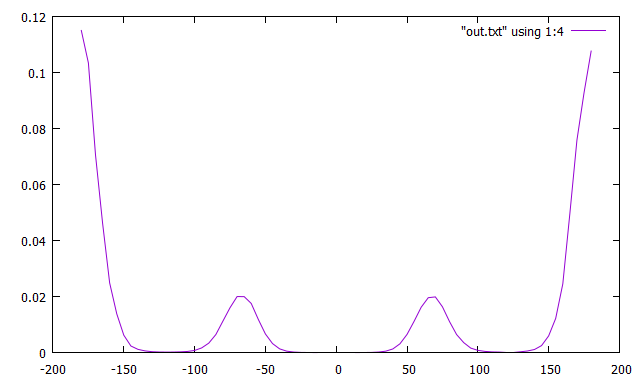
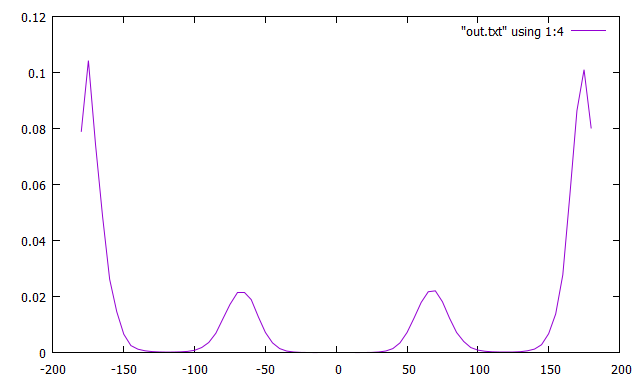
take into account periodicity and add script for plotting

diff --git a/manual/Tutorial/LaTeX/Tutorial.tex b/manual/Tutorial/LaTeX/Tutorial.tex
@@ -1300,11 +1300,12 @@ import os
 import shutil
 
 # USER INPUT
-STEPS = range(-180, 185, 5)           # to which values should the restraint be set? 
+STEPS = range(-180, 185, 5)           # to which values was the restraint set? 
 FORCE_CONSTANT = 0.05                 # force constant of biasing potential
 PATH = "/apps/wham/wham/wham"         # path to WHAM program
 
 # ... for WHAM
+REACTION_COORD = "torsion"   # what kind of reaction coordinate? 'bond' or 'torsion'
 BINS = 73                    # number of points in final PMF (= number of bins)
 MIN = -182.5                 # minimum boundary of histogram
 MAX = 182.5                  # maximum boundary of histogram
@@ -1333,7 +1334,12 @@ def copy_and_and_create_inputfile():
 
 if copy_and_and_create_inputfile():
     os.chdir("analysis")
-    os.popen("{} {} {} {} {:.9f} {} 0 in.txt out.txt".format(PATH,MIN,MAX,BINS,TOL,TEMP)) |\label{runWHAM}
+    if REACTION_COORD == "bond":
+        os.popen("{} {} {} {} {:.9f} {} 0 in.txt out.txt".format(PATH,MIN,MAX,BINS,TOL,TEMP))
+    elif REACTION_COORD == "torsion":
+        os.popen("{} P {} {} {} {:.9f} {} 0 in.txt out.txt".format(PATH,MIN,MAX,BINS,TOL,TEMP)) |\label{runWHAM}|
+    else:
+        print "ERROR: unvalid kind of reaction coordinate!"
 \end{lstlisting}
 
 We start this script the same way as before by typing \texttt{python umbrella\_analysis.py} into a command prompt. Let's see what user input we need:
@@ -1342,6 +1348,7 @@ We start this script the same way as before by typing \texttt{python umbrella\_a
 	\item \texttt{FORCE\_CONSTANT} is the force constant of the biasing potential. 
 	\item For \texttt{PATH} we give the path to the WHAM program including the command \texttt{wham} itself. 
 	\item These three options we need to write the WHAM inputfile \texttt{in.txt}. The following options are needed for running WHAM in line \ref{runWHAM}:
+	\item WHAM needs to know if your reaction coordinate is a bond or a torsion because in case of a torsion it takes into account the symmetry. This information is given by \texttt{REACTION\_COORD}.
 	\item \texttt{BINS} is the number of points where the PMF is calculated. This is not necessarily the same number as the number of the simulations we ran but it's a good point to start.
 	\item \texttt{MIN} and \texttt{MAX} are the minimum and maximum boundary of the histogram. As we want our 73 bins to have their center at the same value for the torsion restraints, -182.5° and 182.5° are the values we have to type here.
 	\item \texttt{TEMP} is the temperature where WHAM should be performed. Again it doesn't have to be the same as where the MD simulations were performed but again, why not?
@@ -1352,7 +1359,7 @@ After we have run the script we can go into the folder \texttt{analysis} which w
 
 We first have a look into the inputfile: It contains for every single window the name of the \texttt{umbrella\_*.txt} file, the value to which the torsinal angle was restrained and the force constant of the biasing potential.
 
-In the output file we only look at lines 1 to 74. The first column contains the center of the bins we defined by the minimum and maximum value of the torsional angle and the number of bins. The second column contains the Free Energy difference $A(\xi)$. We see that it's highest value is at 0°. This is what we expect because there the two methyl groups are next to each other (gauche conformation). This value should be somewhere near $5.76 \frac{kcal}{mol}$\myCite{becker_development_2015}. In my example it is around $6.1 \frac{kcal}{mol}$. Results here can differ a bit because there is always a lot of randomness in MD simulations. The third and the fifth column are bullshit, the fourth line contains the probability. When the Free Energy is high the probability is low and the other way round. Because all other lines start with \texttt{\#} it is quite easy to plot this file with gnuplot: \texttt{plot "out.txt" using 1:2 with lines} shows the Free Energy, \texttt{plot "out.txt" using 1:4 with lines} shows the probability. The results should look something like figure \ref{fig:wham_result}.
+In the output file we only look at lines 1 to 74. The first column contains the center of the bins we defined by the minimum and maximum value of the torsional angle and the number of bins. The second column contains the Free Energy difference $A(\xi)$. We see that it's highest value is at 0°. This is what we expect because there the two methyl groups are next to each other (gauche conformation). This value should be somewhere near $5.76 \frac{kcal}{mol}$\myCite{becker_development_2015}. In my example it is around $5.99 \frac{kcal}{mol}$ or $5.83 \frac{kcal}{mol}$ depending on if I define zero energy as the energy at -180° (where it should be lowest) or as the energy at -175° (where it is lowest). Results here can differ a bit because there is always a lot of randomness in MD simulations. The third and the fifth column are bullshit, the fourth line contains the probability. When the Free Energy is high the probability is low and the other way round. Because all other lines start with \texttt{\#} it is quite easy to plot this file with gnuplot: \texttt{plot "out.txt" using 1:2 with lines} shows the Free Energy, \texttt{plot "out.txt" using 1:4 with lines} shows the probability. The results should look something like figure \ref{fig:wham_result}.
 
 \begin{figure} [htb]
 	\subfigure[Free Energy]{\includegraphics[width=0.49\textwidth]{Img/umbrella_FreeEnergy.png}}

diff --git a/optional_files/scripts/umbrella_plot.py b/optional_files/scripts/umbrella_plot.py
@@ -1,0 +1,59 @@
+### script for graphical analysis of Umbrella Sampling ###
+
+import glob
+import math
+import matplotlib.pyplot as plt
+
+# USER INPUT (only needed for distribution)
+MIN = -182.5
+MAX = 182.5
+
+# read outputfile
+with open("out.txt") as outfile:
+    lines = outfile.readlines()
+
+# get values for reaction coordinae, free energy and probability
+xi = []  # reaction coordinate
+A = []   # free energy
+P = []   # probability
+for line in lines:
+    if line.startswith("#") == False:
+        linelist = line.split()
+        xi.append(float(linelist[0]))
+        A.append(float(linelist[1]))
+        P.append(float(linelist[3]))
+
+# plot Free Energy
+plt.plot(xi, A, linewidth=2, color='black')
+plt.xlim(min(xi),max(xi))
+plt.xlabel('reaction coordinate')
+plt.ylabel('Free Energy A [kcal/mol]')
+plt.savefig("FreeEnergy.png")
+plt.close()
+
+# plot probability
+plt.plot(xi, P, linewidth=2, color='black')
+plt.xlim(min(xi),max(xi))
+plt.xlabel('reaction coordinate')
+plt.ylabel('Probability P')
+plt.savefig("Probability.png")
+plt.close()
+
+# plot distributions from sampling
+print "Start ploting distributions"
+xi_lists = []
+for filename in glob.glob("umbrella_*.txt"):
+    print "looking at file", filename
+    with open(filename) as umbrella_file:
+        lines = umbrella_file.readlines()
+    xi = []
+    for i,line in enumerate(lines):
+        xi.append(float(line.split()[1]))
+    xi_lists.append(xi)
+    print min(xi),max(xi)
+
+plt.rcParams['figure.figsize'] = [11,8]  # 11x8 inches is next to DinA4
+number = int(math.sqrt(len(xi_lists[0])))
+n, bins, patches = plt.hist(xi_lists, number, histtype='step')
+#plt.xlim(MIN,MAX)
+plt.savefig("distribution.png", dpi=100)  

diff --git a/optional_files/scripts/umbrella_analysis.py b/optional_files/scripts/umbrella_analysis.py
@@ -9,6 +9,7 @@ FORCE_CONSTANT = 0.05                 # force constant of biasing potential
 PATH = "/apps/wham/wham/wham"         # path to WHAM program
 
 # ... for WHAM
+REACTION_COORD = "torsion"   # what kind of reaction coordinate? 'bond' or 'torsion'
 MIN = -182.5                 # minimum boundary of histogram
 MAX = 182.5                  # maximum boundary of histogram
 BINS = 73                    # number of points in final PMF (= number of bins)
@@ -37,4 +38,9 @@ def copy_and_and_create_inputfile():
 
 if copy_and_and_create_inputfile():
     os.chdir("analysis")
-    os.popen("{} {} {} {} {:.9f} {} 0 in.txt out.txt".format(PATH,MIN,MAX,BINS,TOL,TEMP))
+    if REACTION_COORD == "bond":
+        os.popen("{} {} {} {} {:.9f} {} 0 in.txt out.txt".format(PATH,MIN,MAX,BINS,TOL,TEMP))
+    elif REACTION_COORD == "torsion":
+        os.popen("{} P {} {} {} {:.9f} {} 0 in.txt out.txt".format(PATH,MIN,MAX,BINS,TOL,TEMP))
+    else:
+        print "ERROR: unvalid kind of reaction coordinate!"
